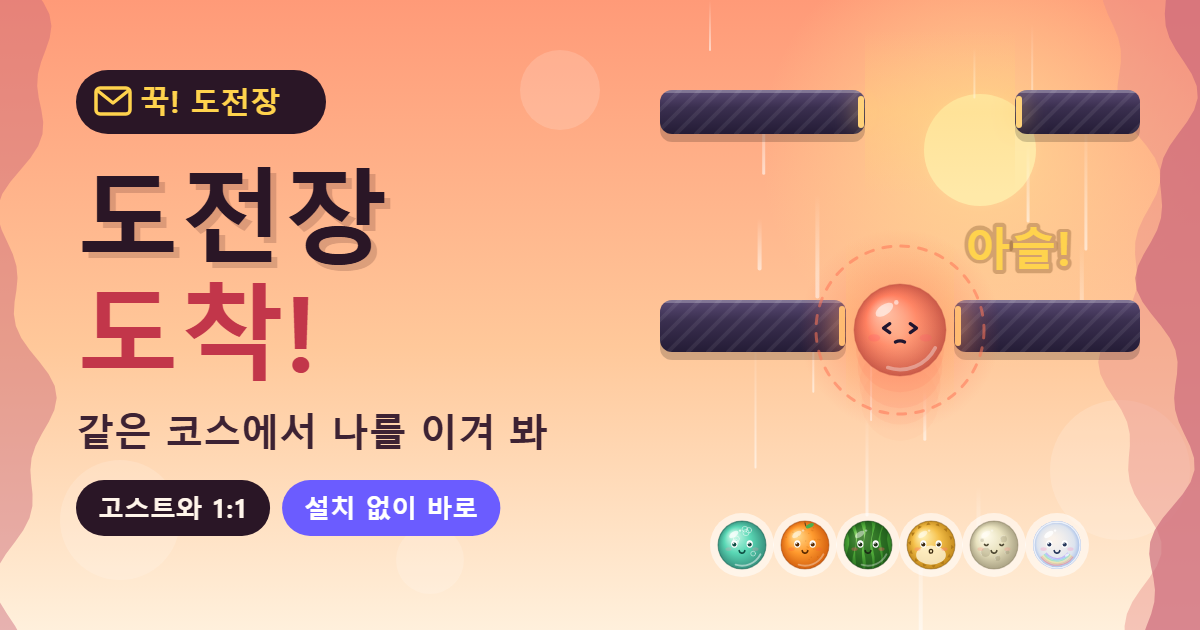
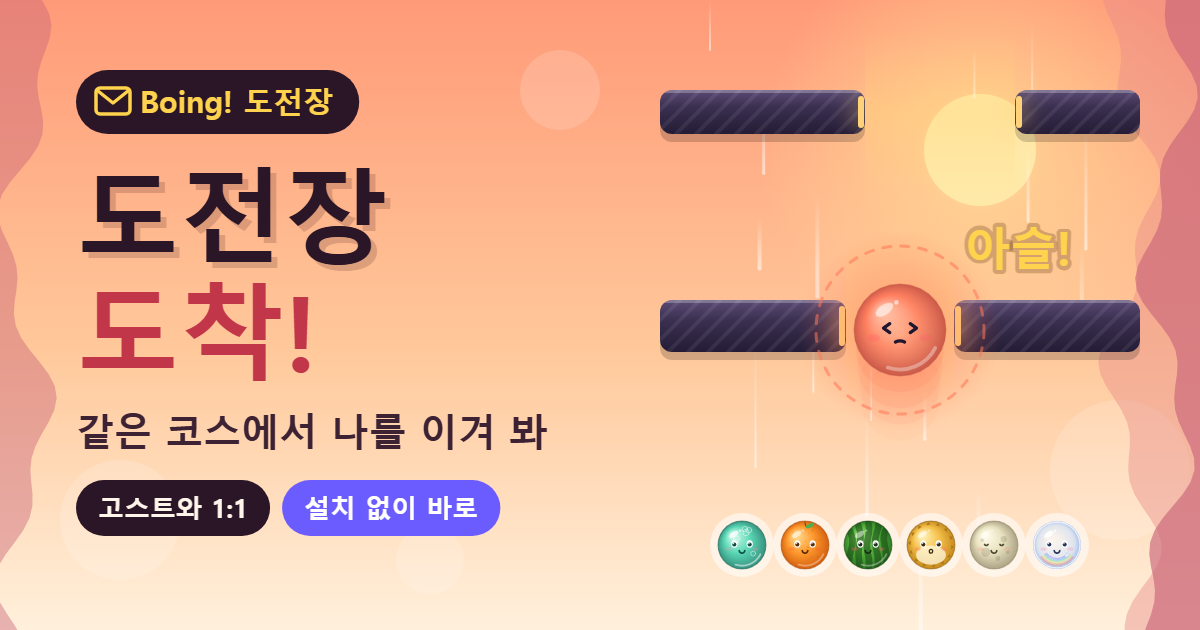
게임 이름을 Boing!으로 변경(모든 언어 통일)
- 화면 제목·앱 이름·탭 제목·링크 미리보기·공유 문구·카카오 카드 제목·썸네일 2종
- 저장 키·코드 이름·캐시 이름은 기존 플레이어 데이터 보존을 위해 유지
- 서비스 워커 캐시 v6

Changed region(s): [[0.0925, 0.0905, 0.3083, 0.2111]]

diff --git a/web/index.html b/web/index.html
@@ -5,21 +5,21 @@
 <meta name="viewport" content="width=device-width, initial-scale=1, viewport-fit=cover, user-scalable=no">
 <meta name="theme-color" content="#f6ece0" media="(prefers-color-scheme: light)">
 <meta name="theme-color" content="#0d1626" media="(prefers-color-scheme: dark)">
-<title>꾹!</title>
+<title>Boing!</title>
 <!-- 링크 미리보기(카카오톡·메신저·SNS). 호스팅 주소가 바뀌면 아래 절대 주소를 함께 바꾼다. -->
 <meta name="description" content="누르면 작아지고, 떼면 튀어 오르는 세로 아케이드. 친구에게 도전장을 보내 같은 코스로 대결해 보세요.">
 <meta property="og:type" content="website">
-<meta property="og:site_name" content="꾹!">
+<meta property="og:site_name" content="Boing!">
 <meta property="og:locale" content="ko_KR">
-<meta property="og:title" content="꾹! — 누르고 튀어 오르기">
+<meta property="og:title" content="Boing! — 누르고 튀어 오르기">
 <meta property="og:description" content="누르면 작아지고, 떼면 튀어 올라요. 친구에게 도전장을 보내 같은 코스로 대결! 설치 없이 바로 · 무료">
 <meta property="og:url" content="https://sgtherong.github.io/game003/web/">
 <meta property="og:image" content="https://sgtherong.github.io/game003/web/og-image.png">
 <meta property="og:image:width" content="1200">
 <meta property="og:image:height" content="630">
-<meta property="og:image:alt" content="꾹! — 몸을 압축해 좁은 틈을 아슬아슬하게 통과하는 캐릭터">
+<meta property="og:image:alt" content="Boing! — 몸을 압축해 좁은 틈을 아슬아슬하게 통과하는 캐릭터">
 <meta name="twitter:card" content="summary_large_image">
-<meta name="twitter:title" content="꾹! — 누르고 튀어 오르기">
+<meta name="twitter:title" content="Boing! — 누르고 튀어 오르기">
 <meta name="twitter:image" content="https://sgtherong.github.io/game003/web/og-image.png">
 <link rel="stylesheet" href="style.css">
 <link rel="manifest" href="manifest.webmanifest">
@@ -28,12 +28,12 @@
 <meta name="apple-mobile-web-app-capable" content="yes">
 <meta name="mobile-web-app-capable" content="yes">
 <meta name="apple-mobile-web-app-status-bar-style" content="default">
-<meta name="apple-mobile-web-app-title" content="꾹!">
+<meta name="apple-mobile-web-app-title" content="Boing!">
 </head>
 <body>
 <main class="app" id="app">
   <header class="topbar">
-    <div class="brand"><span class="brand-blob" aria-hidden="true"></span><span class="brand-name">꾹!</span></div>
+    <div class="brand"><span class="brand-blob" aria-hidden="true"></span><span class="brand-name">Boing!</span></div>
     <div class="top-right">
       <div class="best-chip" id="best-chip" title="이 기기에 저장된 기록"><span class="best-label" id="best-label">터치 최고</span><span class="best-value" id="best-value">0<small>m</small></span></div>
       <button type="button" class="icon-btn small" id="settings-btn" aria-label="설정">

diff --git a/index.html b/index.html
@@ -3,26 +3,26 @@
 <head>
 <meta charset="utf-8">
 <meta name="viewport" content="width=device-width, initial-scale=1">
-<title>꾹!</title>
+<title>Boing!</title>
 <!-- 링크 미리보기(카카오톡·메신저·SNS). 호스팅 주소가 바뀌면 아래 절대 주소를 함께 바꾼다. -->
 <meta name="description" content="누르면 작아지고, 떼면 튀어 오르는 세로 아케이드. 친구에게 도전장을 보내 같은 코스로 대결해 보세요.">
 <meta property="og:type" content="website">
-<meta property="og:site_name" content="꾹!">
+<meta property="og:site_name" content="Boing!">
 <meta property="og:locale" content="ko_KR">
-<meta property="og:title" content="꾹! — 누르고 튀어 오르기">
+<meta property="og:title" content="Boing! — 누르고 튀어 오르기">
 <meta property="og:description" content="누르면 작아지고, 떼면 튀어 올라요. 친구에게 도전장을 보내 같은 코스로 대결! 설치 없이 바로 · 무료">
 <meta property="og:url" content="https://sgtherong.github.io/game003/web/">
 <meta property="og:image" content="https://sgtherong.github.io/game003/web/og-image.png">
 <meta property="og:image:width" content="1200">
 <meta property="og:image:height" content="630">
-<meta property="og:image:alt" content="꾹! — 몸을 압축해 좁은 틈을 아슬아슬하게 통과하는 캐릭터">
+<meta property="og:image:alt" content="Boing! — 몸을 압축해 좁은 틈을 아슬아슬하게 통과하는 캐릭터">
 <meta name="twitter:card" content="summary_large_image">
-<meta name="twitter:title" content="꾹! — 누르고 튀어 오르기">
+<meta name="twitter:title" content="Boing! — 누르고 튀어 오르기">
 <meta name="twitter:image" content="https://sgtherong.github.io/game003/web/og-image.png">
 <!-- 저장소 첫 주소(…/game003/)로 열면 게임(web/)으로 이동. 도전장 링크(#c=…)는 그대로 넘긴다. -->
 <script>location.replace('web/' + location.search + location.hash);</script>
 <meta http-equiv="refresh" content="0; url=web/">
 <style>body{font:16px system-ui,sans-serif;background:#fbf4ea;color:#1d2833;display:grid;place-items:center;min-height:100vh;margin:0}</style>
 </head>
-<body><a href="web/">꾹! 시작하기</a></body>
+<body><a href="web/">Boing! 시작하기</a></body>
 </html>

diff --git a/tools/thumbnail.html b/tools/thumbnail.html
@@ -2,7 +2,7 @@
 <html lang="ko">
 <head>
 <meta charset="utf-8">
-<title>꾹! 썸네일</title>
+<title>Boing! 썸네일</title>
 <!-- 공유 미리보기 이미지(1200×630) 원본. node tools/make-thumbnail.js 가 이 페이지를 찍어 web/og-image.png 로 저장한다. -->
 <style>
   html, body { margin: 0; width: 1200px; height: 630px; overflow: hidden; }
@@ -116,9 +116,11 @@
   }
   if (!challenge) {
     KKUK.Skins.paint('base', { ctx: ctx, x: 128, y: 150, r: 52, held: false, energy: 0, dead: false, danger: 0, now: 0, wob: 0, phase: 0, look: 1, blink: false, expanded: false });
-    ctx.font = '900 150px "Malgun Gothic", sans-serif';
-    ctx.fillStyle = 'rgba(60,20,20,0.18)'; ctx.fillText('꾹!', 206, 210);
-    ctx.fillStyle = '#2a1626'; ctx.fillText('꾹!', 200, 202);
+    // 게임 이름(글로벌 이름). 오른쪽 게임 장면(x≈650~)을 침범하지 않도록 폭에 맞춰 크기 조절
+    var TITLE = 'Boing!', size = 132;
+    do { ctx.font = '900 ' + size + 'px "Segoe UI Black", "Arial Black", "Malgun Gothic", sans-serif'; size -= 4; } while (ctx.measureText(TITLE).width > 420 && size > 60);
+    ctx.fillStyle = 'rgba(60,20,20,0.18)'; ctx.fillText(TITLE, 206, 206);
+    ctx.fillStyle = '#2a1626'; ctx.fillText(TITLE, 200, 198);
     ctx.font = '700 40px "Malgun Gothic", sans-serif'; ctx.fillStyle = '#3d2233';
     ctx.fillText('누르면 작아지고,', 76, 300);
     ctx.fillText('떼면 튀어 올라요', 76, 352);
@@ -130,8 +132,10 @@
   } else {
     // 봉투 모양 배지 + 큰 제목
     ctx.save(); ctx.translate(76, 70);
-    ctx.fillStyle = '#2a1626'; rr(0, 0, 250, 64, 32); ctx.fill();
-    ctx.fillStyle = '#ffd34d'; ctx.font = '800 30px "Malgun Gothic", sans-serif'; ctx.fillText('꾹! 도전장', 64, 43);
+    ctx.font = '800 30px "Malgun Gothic", sans-serif';
+    var badgeW = ctx.measureText('Boing! 도전장').width + 90;
+    ctx.fillStyle = '#2a1626'; rr(0, 0, badgeW, 64, 32); ctx.fill();
+    ctx.fillStyle = '#ffd34d'; ctx.fillText('Boing! 도전장', 64, 43);
     ctx.strokeStyle = '#ffd34d'; ctx.lineWidth = 3.5; ctx.lineJoin = 'round';
     rr(20, 18, 34, 26, 4); ctx.stroke(); ctx.beginPath(); ctx.moveTo(22, 21); ctx.lineTo(37, 33); ctx.lineTo(52, 21); ctx.stroke();
     ctx.restore();

diff --git a/web/strings.ko.js b/web/strings.ko.js
@@ -4,7 +4,7 @@
   root.KKUK.stringsByLang = root.KKUK.stringsByLang || {};
   root.KKUK.stringsByLang.ko = root.KKUK.strings = {
     langName: '한국어',
-    title: '꾹!',
+    title: 'Boing!',
     tagline: '누르면 작아지고, 떼면 튀어 올라요',
     stepPress: '누르기', stepPressDetail: '몸을 압축',
     stepDrag: '드래그', stepDragDetail: '좌우로 이동',
@@ -104,11 +104,11 @@
     challengeSend: '도전장 보내기', challengeBack: '되받아치기',
     challengeTitle: '도전장 보내기',
     nameLabel: '내 이름(선택)', namePlaceholder: '친구에게 보일 이름',
-    shareMsg: '꾹!에서 {h} m 올라갔어. 같은 코스로 이겨 볼래?',
+    shareMsg: 'Boing!에서 {h} m 올라갔어. 같은 코스로 이겨 볼래?',
     shareBtn: '보내기', copyBtn: '링크 복사',
     kakaoBtn: '카카오톡으로 보내기', otherBtn: '다른 앱으로 보내기',
     kakaoFail: '카카오톡 공유를 열지 못했어요. 다른 앱으로 보내기를 써 주세요',
-    cardTitleNamed: '{name}님의 도전장 · {h} m', cardTitle: '꾹! 도전장 · {h} m',
+    cardTitleNamed: '{name}님의 도전장 · {h} m', cardTitle: 'Boing! 도전장 · {h} m',
     cardDesc: '같은 코스에서 나를 이겨 봐! 고스트와 1:1 대결', cardButton: '도전 받기',
     copied: '링크를 복사했어요', shared: '보냈어요', shareFail: '복사하지 못했어요. 길게 눌러 직접 복사해 주세요',
     noGhostNote: '판이 길어 고스트 없이 기록만 보내요',

diff --git a/web/strings.en.js b/web/strings.en.js
@@ -4,7 +4,7 @@
   root.KKUK.stringsByLang = root.KKUK.stringsByLang || {};
   root.KKUK.stringsByLang.en = {
     langName: 'English',
-    title: 'Kkuk!',
+    title: 'Boing!',
     tagline: 'Press to shrink. Let go to bounce back.',
     stepPress: 'Press', stepPressDetail: 'Squeeze',
     stepDrag: 'Drag', stepDragDetail: 'Move sideways',
@@ -104,11 +104,11 @@
     challengeSend: 'Challenge a friend', challengeBack: 'Fire back',
     challengeTitle: 'Send a challenge',
     nameLabel: 'Your name (optional)', namePlaceholder: 'Shown to your friend',
-    shareMsg: 'I climbed {h} m in Kkuk! Can you beat me on the same course?',
+    shareMsg: 'I climbed {h} m in Boing! Can you beat me on the same course?',
     shareBtn: 'Send', copyBtn: 'Copy link',
     kakaoBtn: 'Send via KakaoTalk', otherBtn: 'Send with another app',
     kakaoFail: 'Could not open KakaoTalk sharing. Please use another app',
-    cardTitleNamed: "{name}'s challenge · {h} m", cardTitle: 'Kkuk! challenge · {h} m',
+    cardTitleNamed: "{name}'s challenge · {h} m", cardTitle: 'Boing! challenge · {h} m',
     cardDesc: 'Beat me on the same course — 1:1 with my ghost', cardButton: 'Accept',
     copied: 'Link copied', shared: 'Sent', shareFail: 'Could not copy. Long-press to copy manually',
     noGhostNote: 'Run is long, sending the score without a ghost',

diff --git a/web/sw.js b/web/sw.js
@@ -2,7 +2,7 @@
 // 전략: 네트워크 우선 + 캐시 대체. 온라인이면 항상 최신 파일을 받고 캐시를 갱신하며, 오프라인이면 캐시로 실행한다.
 // 게임 실행 중 서버 통신은 없다(기록·설정은 기기 저장소).
 'use strict';
-var CACHE = 'kkuk-shell-v5';
+var CACHE = 'kkuk-shell-v6';
 var SHELL = [
   './', 'index.html', 'style.css', 'manifest.webmanifest',
   'share-config.js', 'strings.ko.js', 'strings.en.js', 'audio.js', 'skins.js', 'view.js', 'app.js',

diff --git a/ASSETS.md b/ASSETS.md
@@ -4,7 +4,7 @@
 |---|---|---|---|
 | 캐릭터·장애물·배경·아이콘 | 코드로 그린 도형(canvas, inline SVG). 고도 구간 테마 5종(새벽·하늘·노을·밤·오로라), 절벽 실루엣, 별·오로라, 돌판 질감 포함 (`web/view.js`) | 이 프로젝트에서 직접 작성 | 가능(자체 제작) |
 | 외형 8종 (젤리·민트 슬라임·오렌지·수박·복어·털뭉치·달·유리구슬) | 코드로 그린 도형 (`web/skins.js`) | 이 프로젝트에서 직접 작성 | 가능(자체 제작) |
-| 공유 미리보기 이미지 `web/og-image.png`, 앱 아이콘 | 게임과 같은 그림 코드로 생성(`tools/thumbnail.html`, `tools/make-icons.js`). 글꼴은 생성한 PC의 시스템 글꼴(맑은 고딕)로 그려 이미지에 포함 | 이 프로젝트에서 직접 작성 | 가능. 단 이미지에 그려진 글자는 맑은 고딕 — 배포 이미지 속 글꼴 사용 조건은 출시 전 확인 |
+| 공유 미리보기 이미지 `web/og-image.png`, 앱 아이콘 | 게임과 같은 그림 코드로 생성(`tools/thumbnail.html`, `tools/make-icons.js`). 글꼴은 생성한 PC의 시스템 글꼴(맑은 고딕)로 그려 이미지에 포함 | 이 프로젝트에서 직접 작성 | 가능. 단 이미지에 그려진 글자는 맑은 고딕·Segoe UI Black(제목 "Boing!") — 배포 이미지 속 글꼴 사용 조건은 출시 전 확인 |
 | 효과음 | Web Audio 실시간 합성 (`web/audio.js`) | 이 프로젝트에서 직접 작성, 외부 음원 없음 | 가능(자체 제작) |
 | 글꼴 | 기기 시스템 글꼴 (Pretendard·Apple SD Gothic Neo·Malgun Gothic 순으로 설치된 것 사용) | 앱에 포함·배포하지 않음 | 배포하지 않으므로 별도 라이선스 불필요. 글꼴을 앱에 포함하게 되면 그 글꼴의 라이선스를 여기에 기록 |
 | 음악 | 없음 | — | — |

diff --git a/ISSUES.md b/ISSUES.md
@@ -147,3 +147,10 @@ R0(`rulesVersion: r0`)는 기준 시제품의 동작을 **의도적으로 그대
 - 카카오 카드 버튼 링크는 `?c=`(쿼리) 형식. 받는 쪽은 `#c=`·`?c=` 모두 읽고, 처리 뒤 주소에서 지운다(다른 쿼리는 유지).
 - 확인: 카카오 객체를 흉내 내 카드 내용(제목·설명·이미지·버튼·링크)을 확인하고, 그 링크로 열어 "기록 확인됨"까지 확인. **실제 카카오톡 전송은 키가 없어 확인하지 못함.**
 - `?c=` 링크는 GitHub 서버 접속 기록에 남을 수 있다(내용은 게임 기록·이름뿐).
+
+## 이름 변경: 꾹! → Boing! (사용자 결정, 2026-10-07)
+
+- 모든 언어에서 **Boing!** 하나로 통일. 바뀐 곳: 화면 제목·앱 이름(설치 아이콘 아래 이름)·브라우저 탭 제목·링크 미리보기 태그·공유 문구·카카오 카드 제목·두 썸네일 이미지·저장소 설명.
+- 그대로 둔 것: 저장 키(`kkuk.profile`)·코드 이름(`KKUK`)·캐시 이름·폴더 — 바꾸면 기존 기록·별·외형이 사라진다. 벽 라벨 "짧게 꾹·길게 꾹"은 조작 안내라 유지.
+- **"Boing!" 이름의 상표·유사 게임 이름 검토는 하지 않았다.** 스토어 출시 전에 확인 필요(같은 이름의 앱이 이미 있을 수 있음).
+- 이미 홈 화면에 설치한 기기는 앱 이름이 바로 바뀌지 않을 수 있다(브라우저가 매니페스트를 다시 읽을 때 반영). 카카오톡 등은 예전 미리보기를 캐시하므로 공유 디버거로 갱신 필요.

diff --git a/README.md b/README.md
@@ -1,4 +1,6 @@
-# 꾹! — R0 기준 재현 프로젝트
+# Boing! (가칭 「꾹!」에서 변경) — 웹 게임 프로젝트
+
+게임의 공식 이름은 **Boing!**이며 모든 언어에서 같은 이름을 쓴다(2026-10-07 변경). 내부 식별자(저장 키 `kkuk.profile`, 코드 이름 `KKUK`, 캐시 이름 `kkuk-shell-*`, 폴더 `kkuk/`)는 **기존 플레이어의 기록·별·외형을 지키기 위해 그대로 둔다** — 바꾸면 저장 데이터가 사라진다.
 
 누른 채 드래그해 몸을 압축하고 좌우로 움직이며, 손을 떼면 생기는 반동으로 끝없이 올라가는 세로형 아케이드 게임.
 
